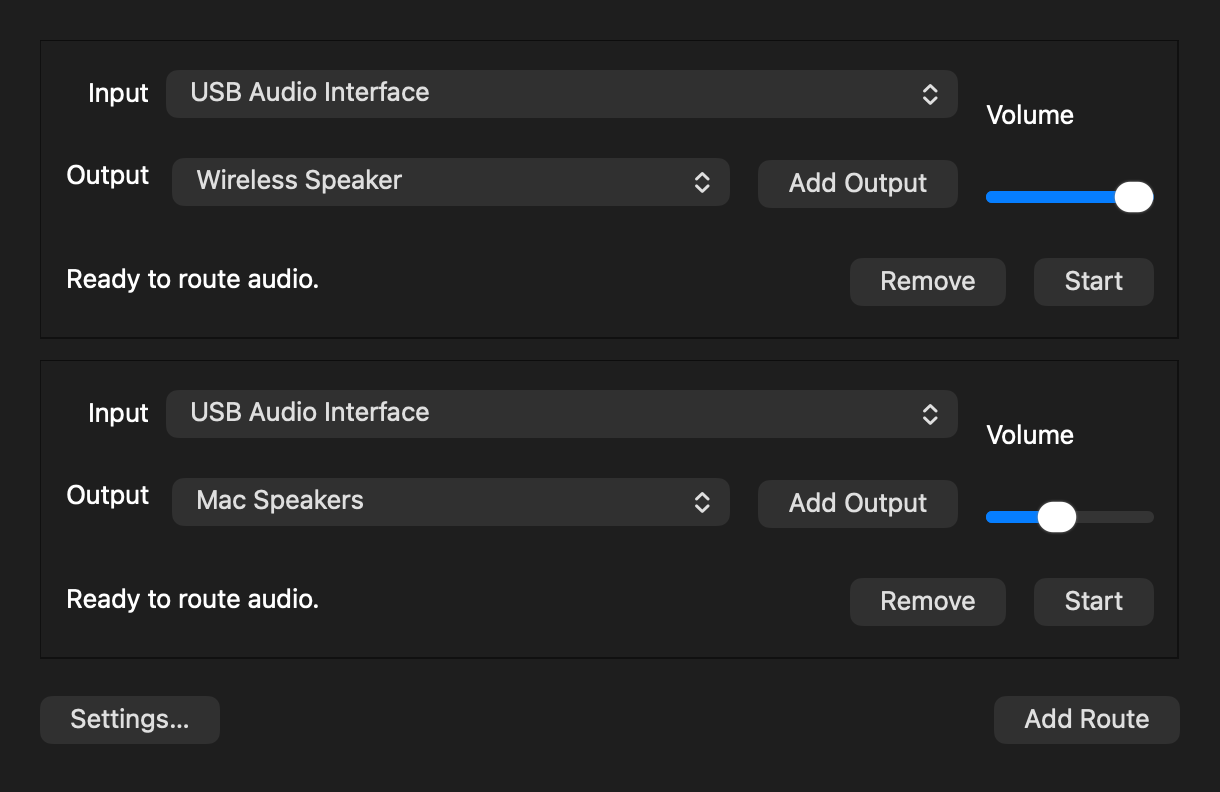
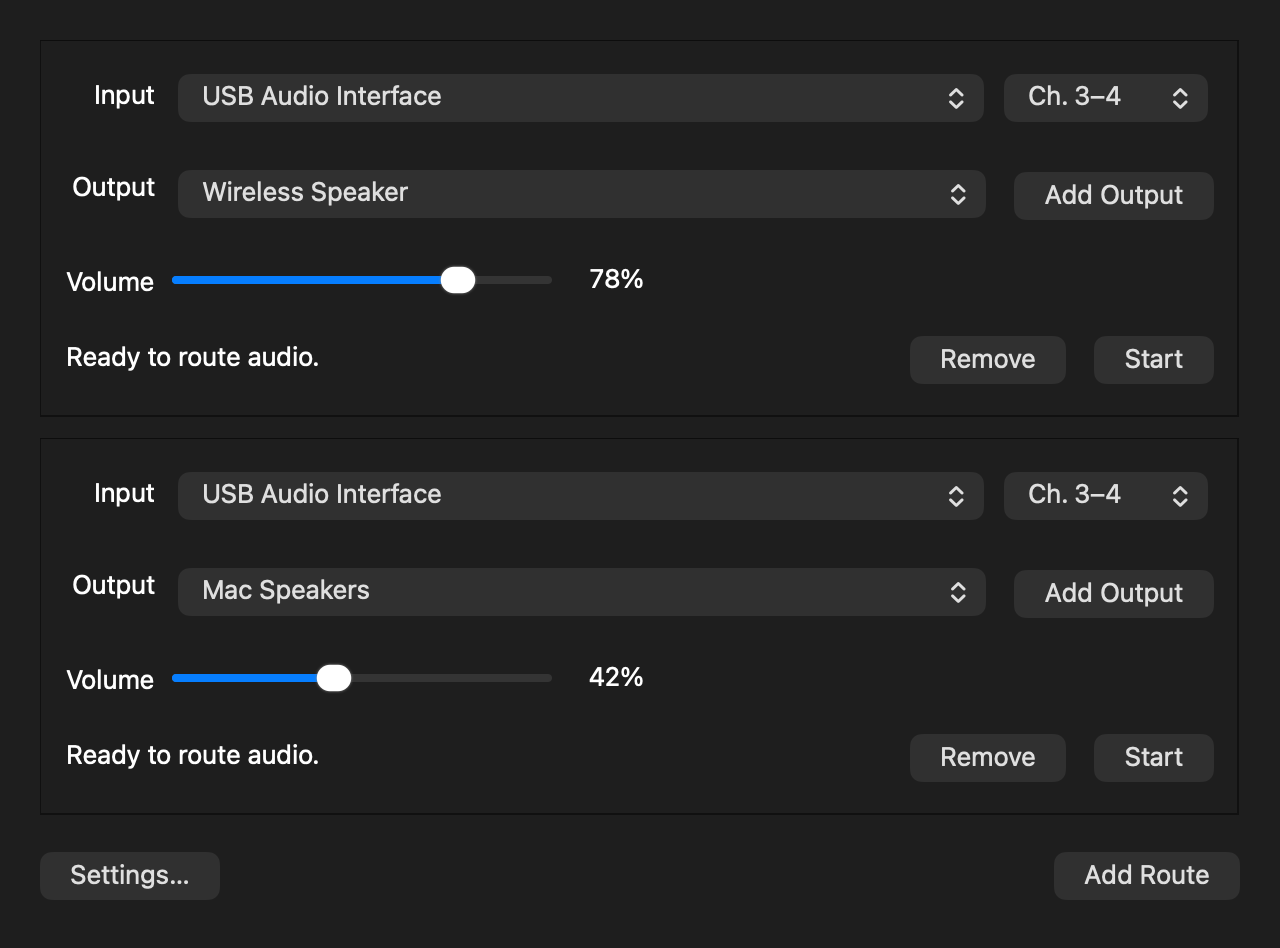
Update README screenshot

diff --git a/README.md b/README.md
@@ -7,7 +7,7 @@
 Release downloads are ad-hoc signed. If macOS asks you to approve the app the first time you open it, see [Apple’s instructions for opening a downloaded app](https://support.apple.com/en-us/102445).
 
 <p align="center">
-  <img src="assets/aux-bridge.png" alt="Aux Bridge on macOS with two routes from a USB audio interface, each with its own output and volume slider" width="640">
+  <img src="assets/aux-bridge.png" alt="Aux Bridge on macOS routing USB input channels 3–4 to two speakers with separate volume sliders" width="640">
 </p>
 
 ## Your audio, where you want it
